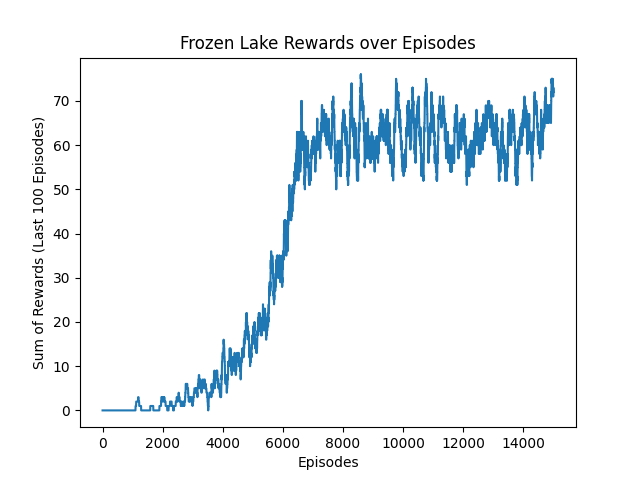
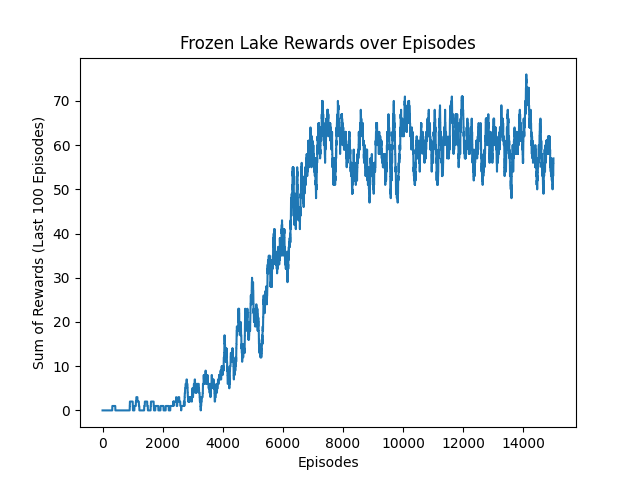
add trasition prob calculation and DP Version

Changed region(s): [[0.1562, 0.1562, 0.875, 0.875]]

diff --git a/part2/Class_version/dp_frozen_lake.py b/part2/Class_version/dp_frozen_lake.py
@@ -1,0 +1,94 @@
+import gymnasium as gym
+import numpy as np
+import matplotlib.pyplot as plt
+
+class FrozenLakeDP:
+    def __init__(self, map_name="8x8", is_slippery=True, render_mode="ansi"):
+        self.map_name = map_name
+        self.is_slippery = is_slippery
+        self.render_mode = render_mode
+        self.gamma = 0.99  # Discount factor
+        self.theta = 1e-9  # Convergence threshold
+        self.policy = None
+        self.V = None
+
+    def value_iteration(self, env):
+        """
+        Perform Value Iteration to find the optimal policy.
+        """
+        n_states = env.observation_space.n
+        n_actions = env.action_space.n
+        self.V = np.zeros(n_states)
+        
+        print("Starting Value Iteration...")
+        iteration = 0
+        while True:
+            delta = 0
+            for s in range(n_states):
+                v = self.V[s]
+                # Calculate the value for each action
+                action_values = np.zeros(n_actions)
+                for a in range(n_actions):
+                    for prob, next_s, reward, terminated in env.unwrapped.P[s][a]:
+                        target = reward
+                        if not terminated:
+                            target += self.gamma * self.V[next_s]
+                        action_values[a] += prob * target
+                
+                # Update the value of the state to the maximum action value
+                self.V[s] = np.max(action_values)
+                delta = max(delta, abs(v - self.V[s]))
+            
+            iteration += 1
+            if delta < self.theta:
+                print(f"Value Iteration converged in {iteration} iterations.")
+                break
+        
+        # Extract the optimal policy
+        self.policy = np.zeros(n_states, dtype=int)
+        for s in range(n_states):
+            action_values = np.zeros(n_actions)
+            for a in range(n_actions):
+                for prob, next_s, reward, terminated in env.unwrapped.P[s][a]:
+                    target = reward
+                    if not terminated:
+                        target += self.gamma * self.V[next_s]
+                    action_values[a] += prob * target
+            self.policy[s] = np.argmax(action_values)
+
+    def print_success_rate(self, rewards_per_episode):
+        """Calculate and print the success rate of the agent."""
+        total_episodes = len(rewards_per_episode)
+        success_count = np.sum(rewards_per_episode)
+        success_rate = (success_count / total_episodes) * 100
+        print(f"✅ Success Rate: {success_rate:.2f}% ({int(success_count)} / {total_episodes} episodes)")
+        return success_rate
+
+    def run_evaluation(self, episodes=1000):
+        env = gym.make("FrozenLake-v1", map_name=self.map_name, is_slippery=self.is_slippery, render_mode=self.render_mode)
+        
+        # Solve the MDP first
+        self.value_iteration(env)
+        
+        print(f"\nEvaluating DP Policy for {episodes} episodes...")
+        rewards_per_episode = np.zeros(episodes)
+        
+        for i in range(episodes):
+            state = env.reset()[0]
+            terminated = False
+            truncated = False
+            
+            while not terminated and not truncated:
+                action = self.policy[state]
+                new_state, reward, terminated, truncated, _ = env.step(action)
+                state = new_state
+                
+                if reward == 1:
+                    rewards_per_episode[i] = 1
+        
+        env.close()
+        self.print_success_rate(rewards_per_episode)
+
+if __name__ == '__main__':
+    agent = FrozenLakeDP(map_name="8x8", is_slippery=True)
+    agent.run_evaluation(episodes=10000)

diff --git a/part2/Class_version/class_frozen_lake.py b/part2/Class_version/class_frozen_lake.py
@@ -93,13 +93,18 @@ class FrozenLakeAgent:
                 new_state, reward, terminated, truncated,_ = env.step(action)
 
                 if self.is_training:
-                    target = reward
-                    if not terminated:
-                        target += self.discount_factor_g * np.max(self.q[new_state,:])
-                    # 原本 self.q[state,action] = self.q[state,action] + self.learning_rate_a * ( reward + self.discount_factor_g * np.max(self.q[new_state,:]) - self.q[state,action] )
-                    # 當 terminated 為 True 時，目標值 (Target) 應該只等於當下的 reward (掉洞是 0，到達目標是 1)，不再加上未來的預期獎勵。這能讓 Agent 更明確地學會避開冰洞。
+                    # 利用轉移機率計算總期望值 ( 算小作弊? )
+                    expected_target = 0
+                    transitions = env.unwrapped.P[state][action]
+                    
+                    for prob, next_s, r, term in transitions:
+                        target = r
+                        if not term:
+                            target += self.discount_factor_g * np.max(self.q[next_s, :])
+                        expected_target += prob * target
+
                     self.q[state,action] = self.q[state,action] + self.learning_rate_a * (
-                        target - self.q[state,action]
+                        expected_target - self.q[state,action]
                     )
 
                 state = new_state
